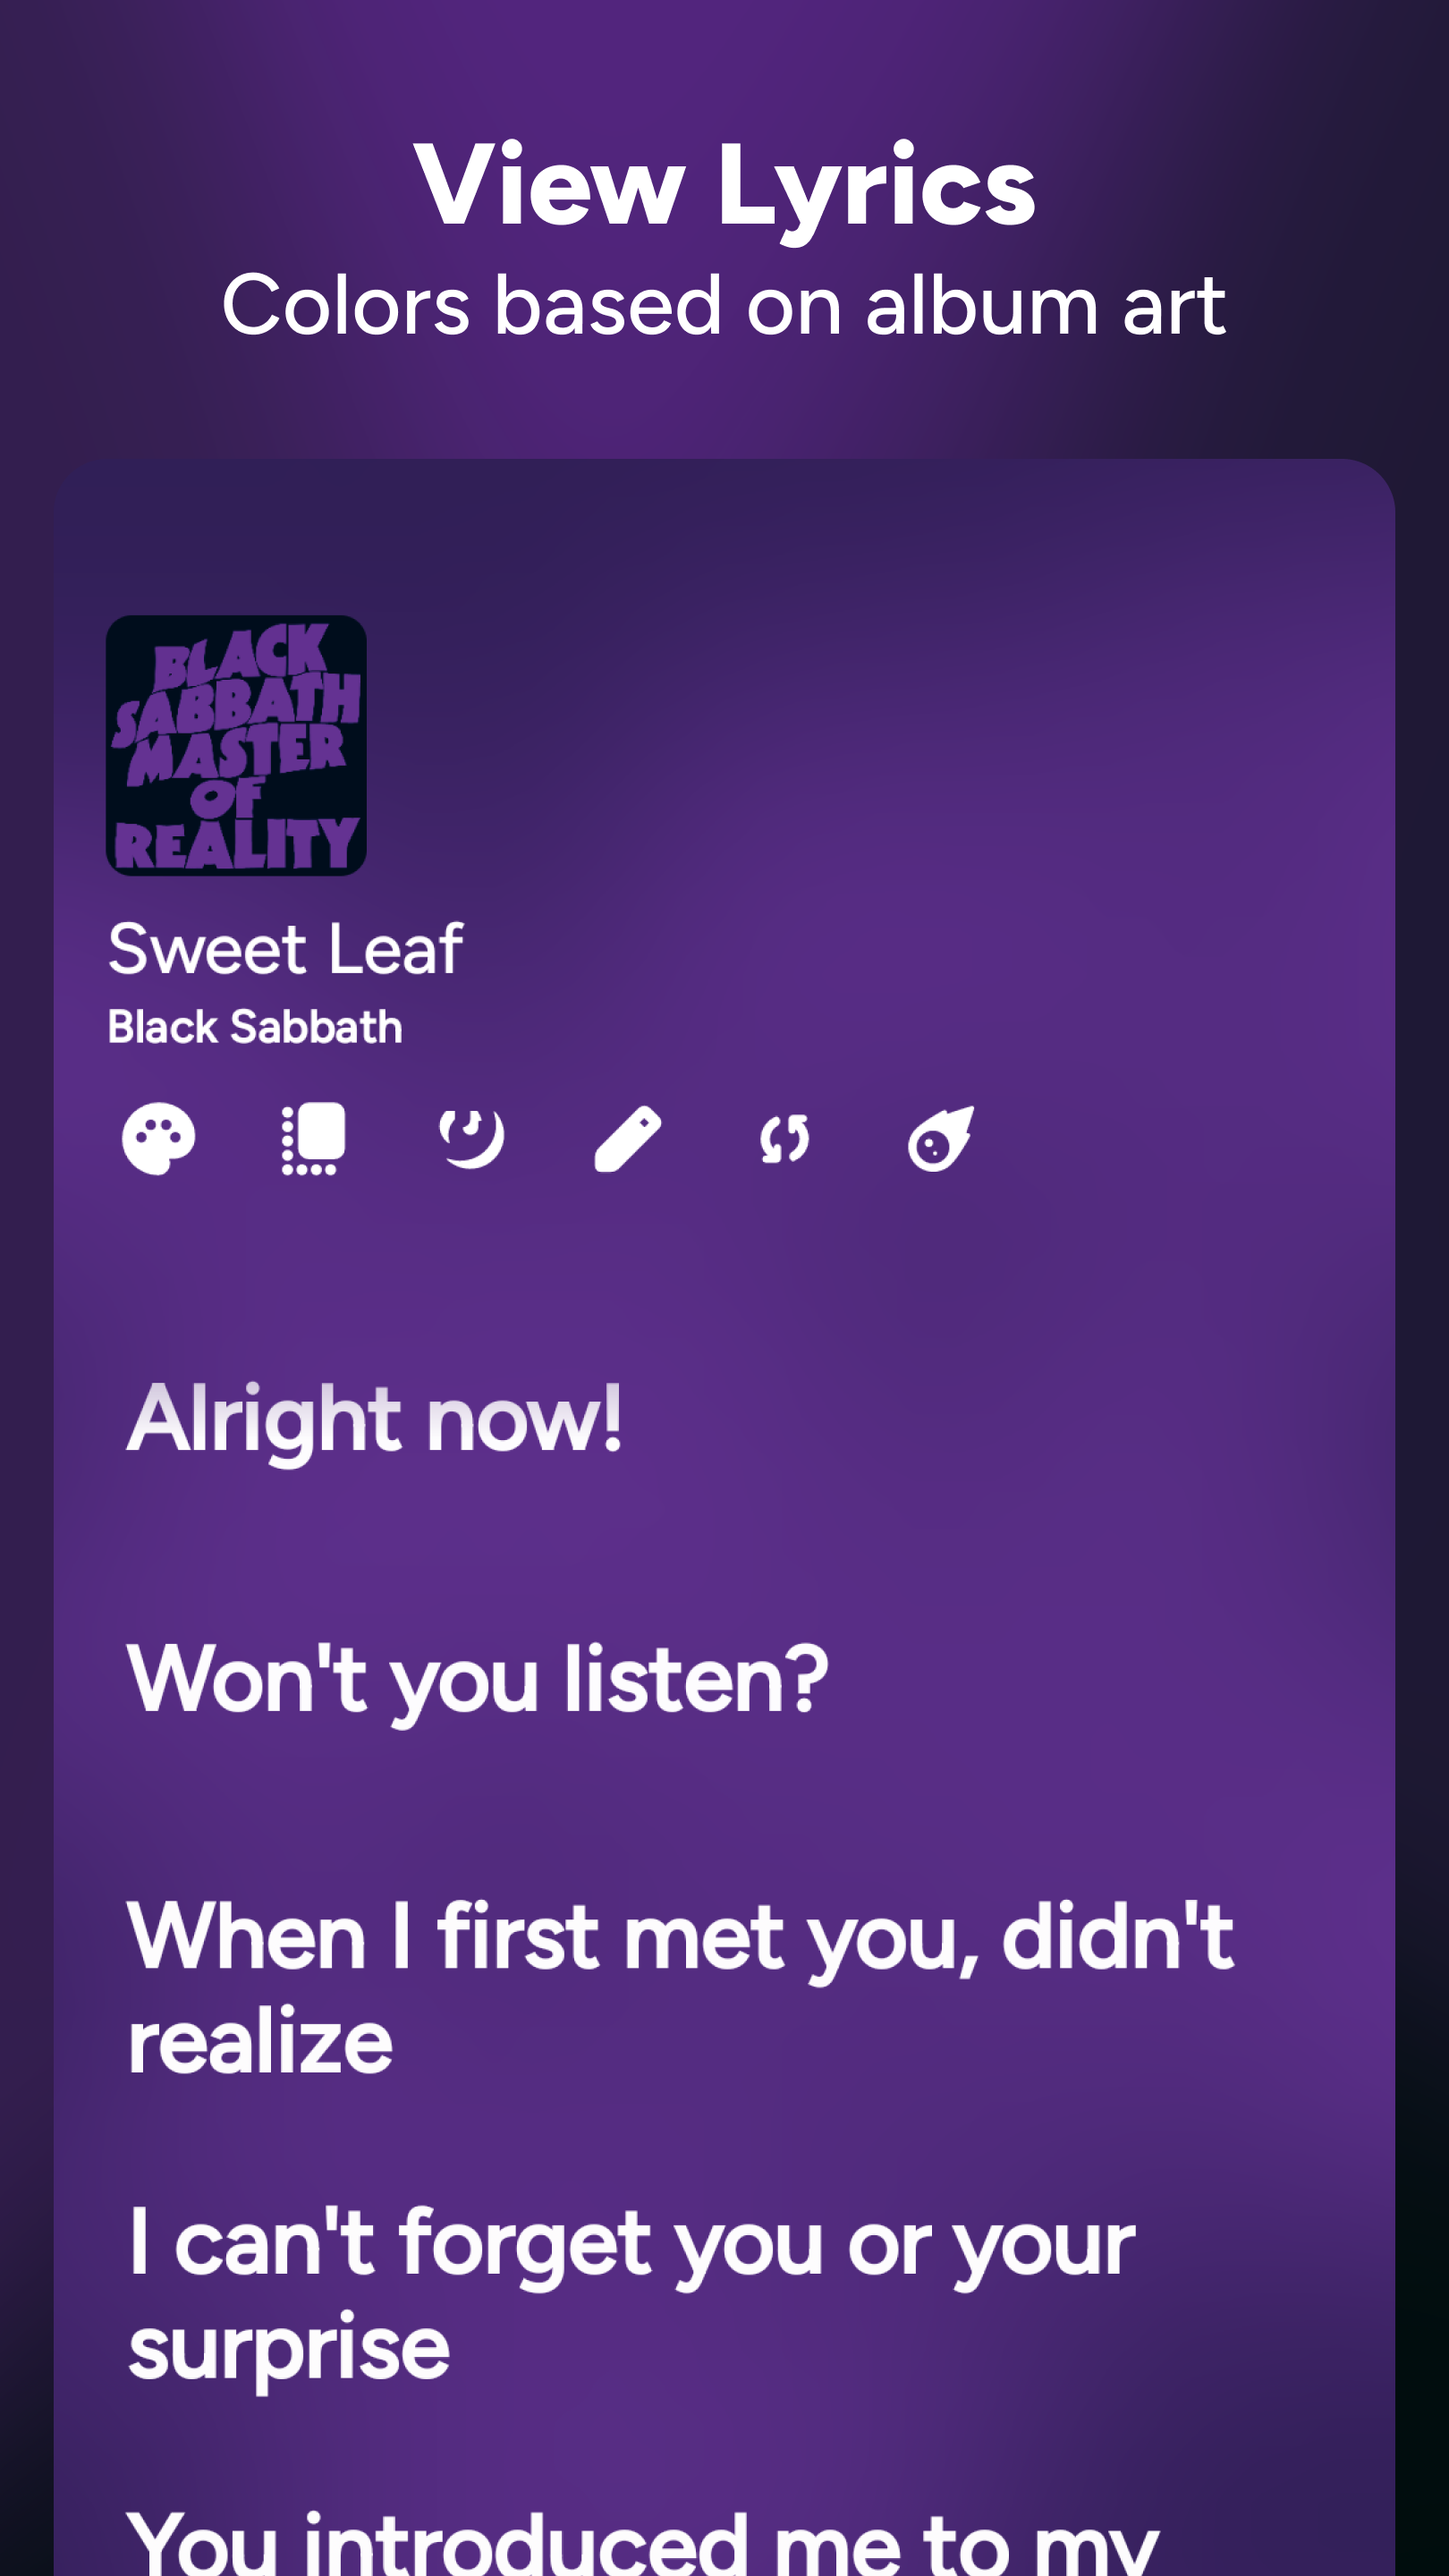
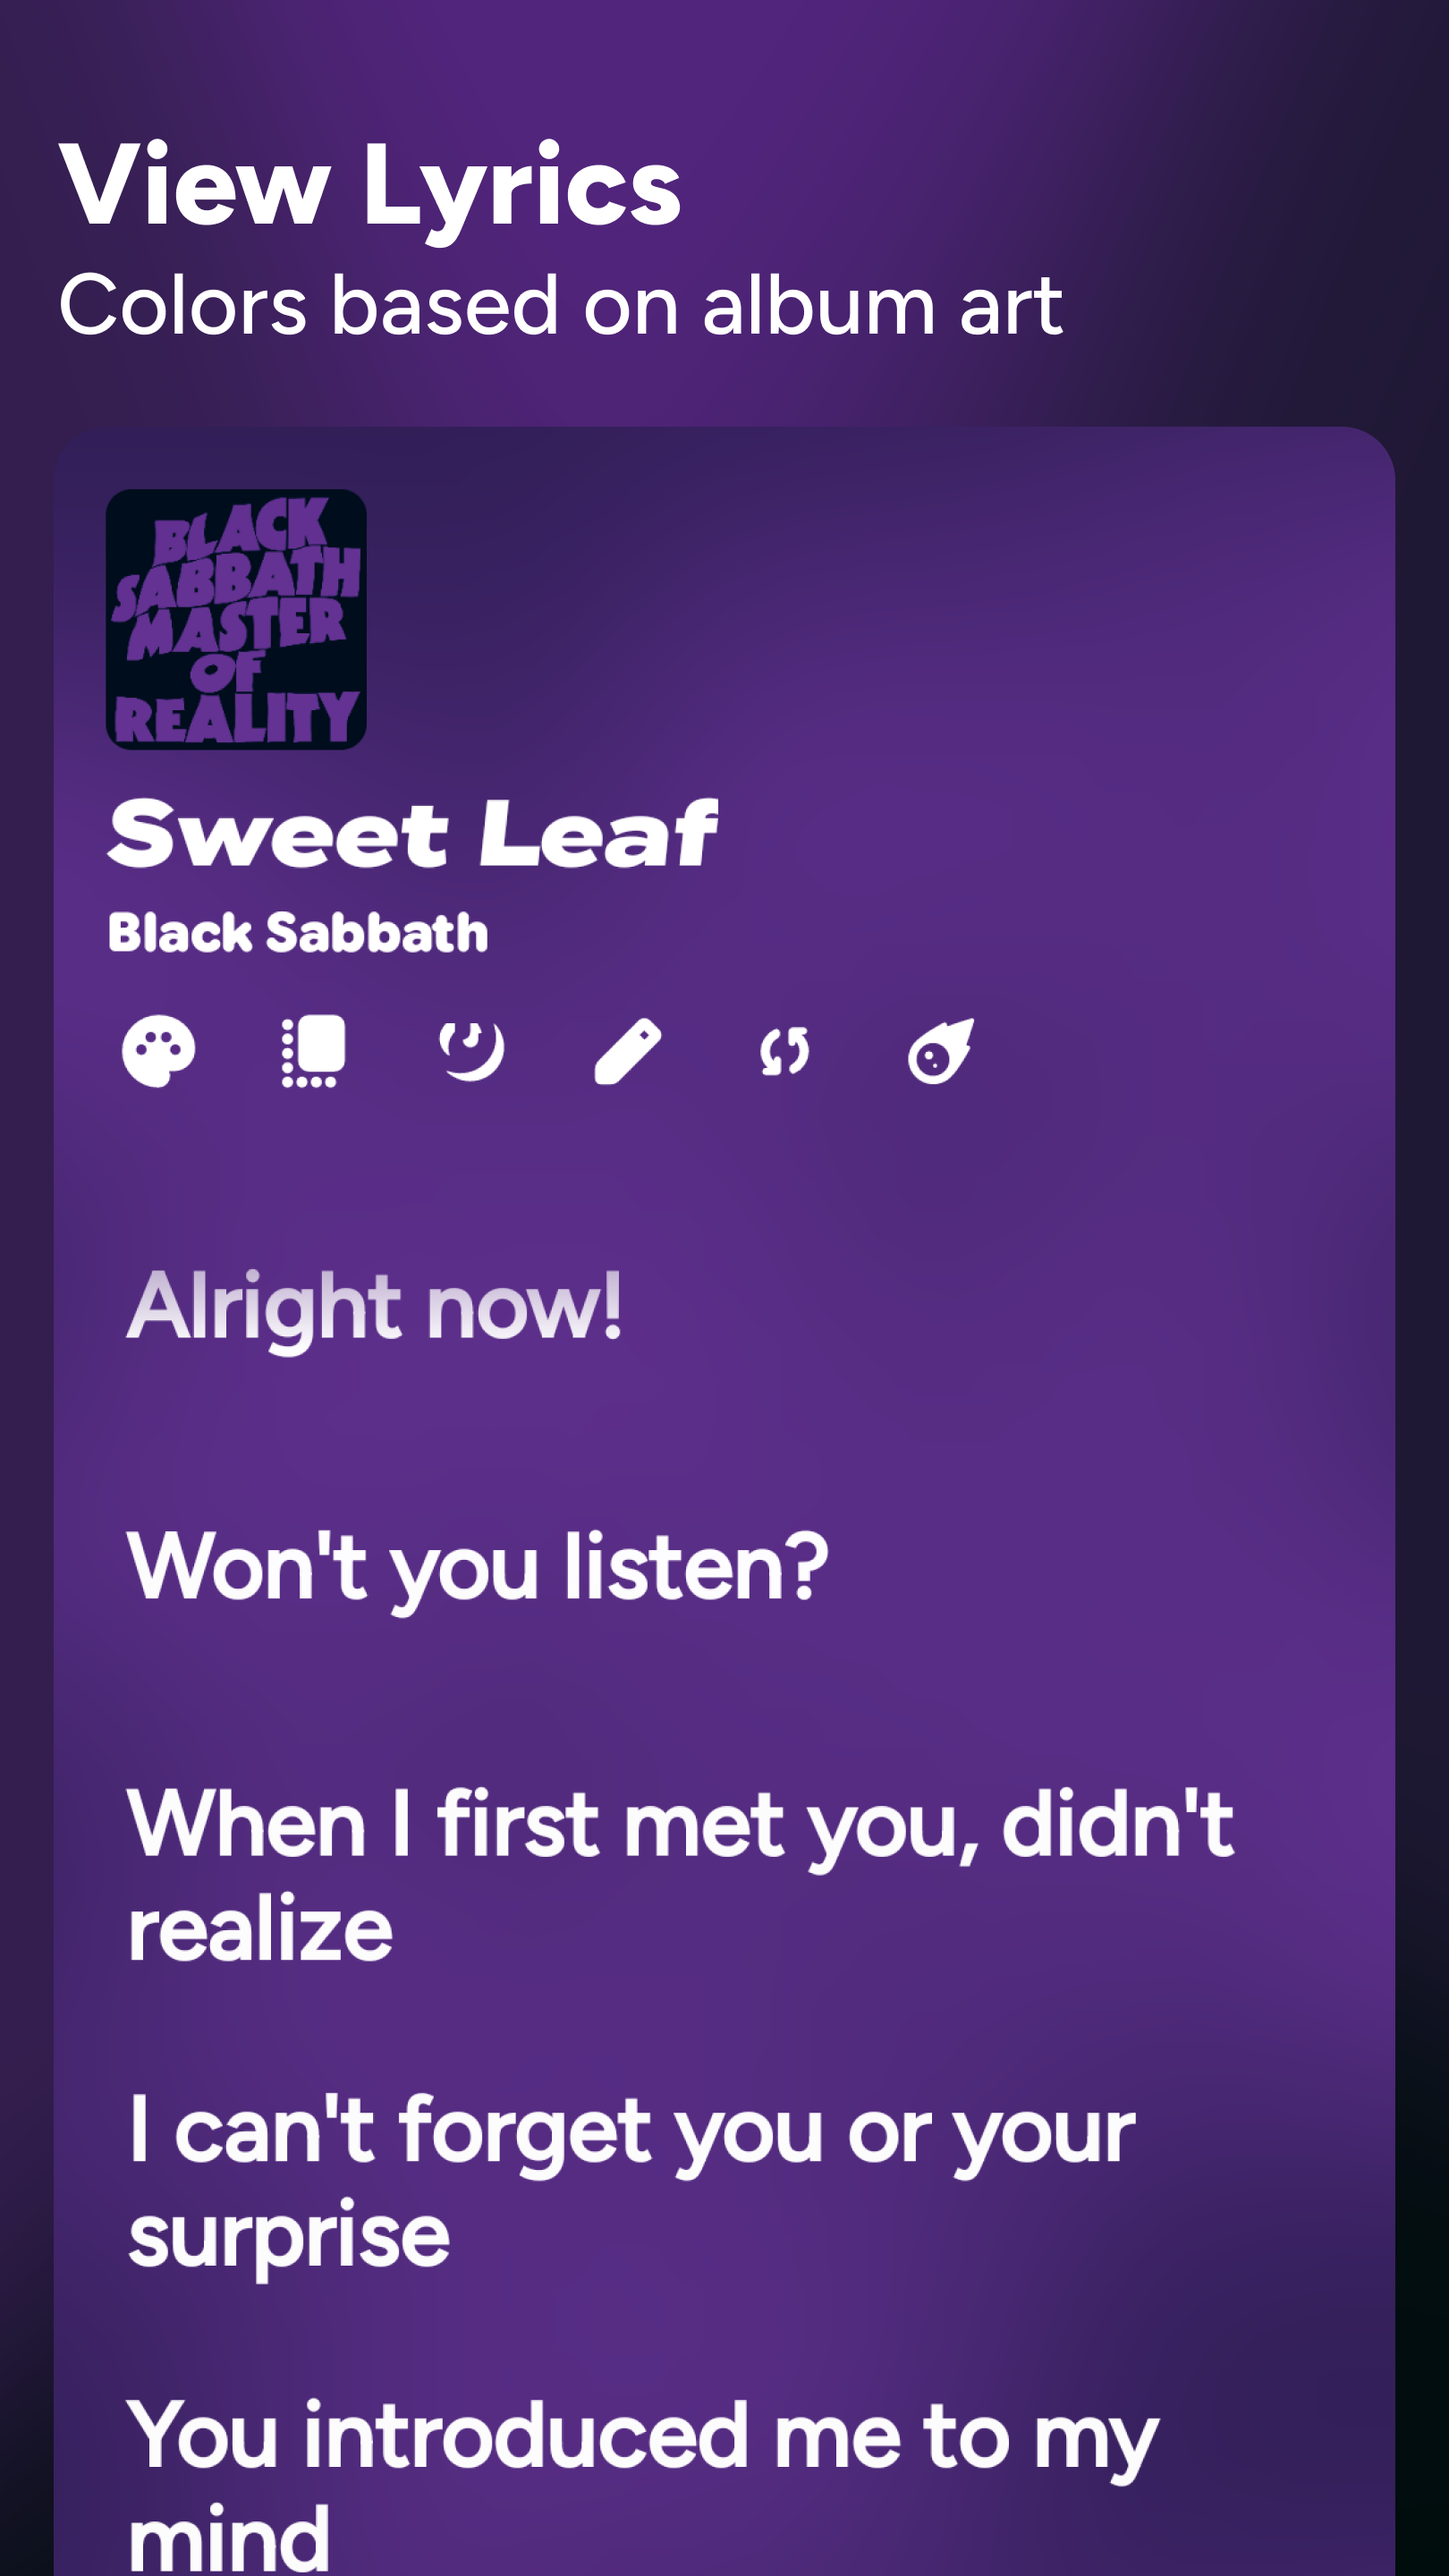
:sparkles: updated metadata

diff --git a/app/src/main/java/com/shub39/rush/presentation/lyrics/section/LyricsPage.kt b/app/src/main/java/com/shub39/rush/presentation/lyrics/section/LyricsPage.kt
@@ -82,7 +82,7 @@ import com.shub39.rush.presentation.components.PageFill
 import com.shub39.rush.presentation.components.RushTheme
 import com.shub39.rush.presentation.fadeBottomToTop
 import com.shub39.rush.presentation.fadeTopToBottom
-import com.shub39.rush.presentation.flexFontBold
+import com.shub39.rush.presentation.flexFontEmphasis
 import com.shub39.rush.presentation.flexFontRounded
 import com.shub39.rush.presentation.glowBackground
 import com.shub39.rush.presentation.lyrics.ApplyLyricsBackground
@@ -248,8 +248,8 @@ fun LyricsPage(
                                             Text(
                                                 text = lyricsState.song.title,
                                                 style =
-                                                    MaterialTheme.typography.headlineSmall.copy(
-                                                        fontFamily = flexFontBold()
+                                                    MaterialTheme.typography.headlineMedium.copy(
+                                                        fontFamily = flexFontEmphasis()
                                                     ),
                                                 maxLines = 1,
                                                 overflow = TextOverflow.Ellipsis,
@@ -261,7 +261,7 @@ fun LyricsPage(
                                             Text(
                                                 text = lyricsState.song.artists,
                                                 style =
-                                                    MaterialTheme.typography.titleSmall.copy(
+                                                    MaterialTheme.typography.titleMedium.copy(
                                                         fontFamily = flexFontRounded()
                                                     ),
                                                 fontWeight = FontWeight.Bold,

diff --git a/app/src/main/java/com/shub39/rush/presentation/lyrics/section/LyricsCustomisationPage.kt b/app/src/main/java/com/shub39/rush/presentation/lyrics/section/LyricsCustomisationPage.kt
@@ -66,7 +66,7 @@ import com.shub39.rush.domain.enums.LyricsBackground
 import com.shub39.rush.presentation.components.ColorPickerDialog
 import com.shub39.rush.presentation.components.RushDialog
 import com.shub39.rush.presentation.components.RushTheme
-import com.shub39.rush.presentation.flexFontBold
+import com.shub39.rush.presentation.flexFontEmphasis
 import com.shub39.rush.presentation.lyrics.LyricsPageAction
 import com.shub39.rush.presentation.lyrics.LyricsPageState
 import com.shub39.rush.presentation.lyrics.component.customisation.LyricsCustomisationPreview
@@ -131,7 +131,7 @@ fun LyricsCustomisationsPage(
                     title = {
                         Text(
                             text = stringResource(R.string.customisations),
-                            fontFamily = flexFontBold(),
+                            fontFamily = flexFontEmphasis(),
                             maxLines = 1,
                             modifier = Modifier.basicMarquee(),
                         )
